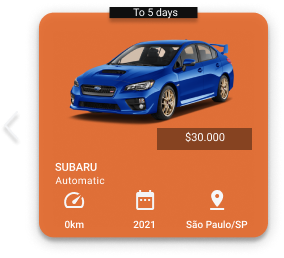
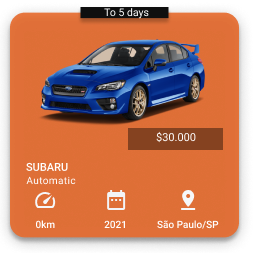
Fixes

diff --git a/src/components/MostPopular_Item/MostPopular_Carousel.js b/src/components/MostPopular_Item/MostPopular_Carousel.js
@@ -22,14 +22,13 @@ const MostPopular_Carousel = ({ props }) => {
   };
 
   return (
-    <div>
+    <div className = {classes.carrouselContainer_Popular}>
       <h5 className={classes.recent}>MOST POPULAR</h5>
       <FaCaretSquareLeft className={classes.leftArrow_Popular} onClick={prevSlide} />
       <FaCaretSquareRight
       className={classes.rightArrow_Popular}
       onClick={nextSlide}
       />
-      <div className={classes.carrouselContainer}>
         <div
           className={`${classes.carrousel}`}
           style={{ transform: `translateX(${x}px)` }}
@@ -42,7 +41,6 @@ const MostPopular_Carousel = ({ props }) => {
             );
           })}
         </div>
-      </div>
     </div>
   );
 };

diff --git a/src/app.css b/src/app.css
@@ -15,8 +15,9 @@ h5 {
   font-family: "Roboto";
 }
 
+
 button {
-  border: none;
+  border: transparent;
   width: 80px;
   height: 65px;
   background-repeat: no-repeat;
@@ -26,8 +27,12 @@ button {
   margin-right: 9vh;
 }
 
-.button :hover{
-  border-color: red;
+button:hover {background-color: rgb(172, 171, 171)}
+
+button:active {
+  background-color: #faf6f4;
+  box-shadow: 0 5px #666;
+  transform: translateY(4px);
 }
 
 

diff --git a/src/components/MostPopular_Item/CardPopular.module.css b/src/components/MostPopular_Item/CardPopular.module.css
@@ -1,4 +1,4 @@
-.carrouselContainer{
+.carrouselContainer_Popular{
     width: 80vw;
     overflow: hidden;
     margin: auto;
@@ -11,7 +11,9 @@
   .leftArrow_Popular{
     width: 56px;
     height: 56px;
-    position: absolute;
+    background: transparent;
+    top: 15vw;
+   
   }
   
   .rightArrow_Popular{

diff --git a/src/components/Menu/Menu.js b/src/components/Menu/Menu.js
@@ -6,6 +6,7 @@ const Menu = () => {
     <div>
       <div className={classes.navbar}>
         <ul>
+          
           <Link className={classes.navButton}>HOME</Link>
           <Link className={classes.navButton}>BUY</Link>
           <Link className={classes.navButton}>SELL</Link>

diff --git a/src/pages/Footer.css b/src/pages/Footer.css
@@ -1,0 +1,13 @@
+.footer-container {
+    background-color: #1A1A1A;
+    padding: 4rem 0 2rem 0;
+    display: flex;
+    flex-direction: column;
+    justify-content: center;
+}
+
+.footer-text {
+    background-color: transparent;
+    color: white;
+    text-align: center;
+}

diff --git a/src/components/Cards/Cards.module.css b/src/components/Cards/Cards.module.css
@@ -11,16 +11,10 @@
 .leftArrow{
   width: 56px;
   height: 56px;
-  top:220%;
-  position: absolute;
-  left: 6.5vh;
 }
 
 .rightArrow{
-  position: absolute;
   width: 56px;
   height: 56px;
-  top:220%;
-  right: 6.5vh;
 }
 

diff --git a/src/components/CarCarousel/CarCarousel.module.css b/src/components/CarCarousel/CarCarousel.module.css
@@ -25,10 +25,6 @@
     width: 100%;
   }
 
-  .items::-webkit-scrollbar-track{
-      background: transparent;
-  }
-
 .items::-webkit-scrollbar-thumb {
     background: #E66D30;
     border-radius:50px;

diff --git a/src/components/HeroSection/HeroSection.module.css b/src/components/HeroSection/HeroSection.module.css
@@ -8,7 +8,7 @@
    align-items: center;
    box-shadow: inset 0 0 0 1000px rgba(0,0,0, 0.2);
    object-fit: contain;
-   padding-bottom: 5vh;
+   padding-bottom: 20%;
 }
 
 .rent {
